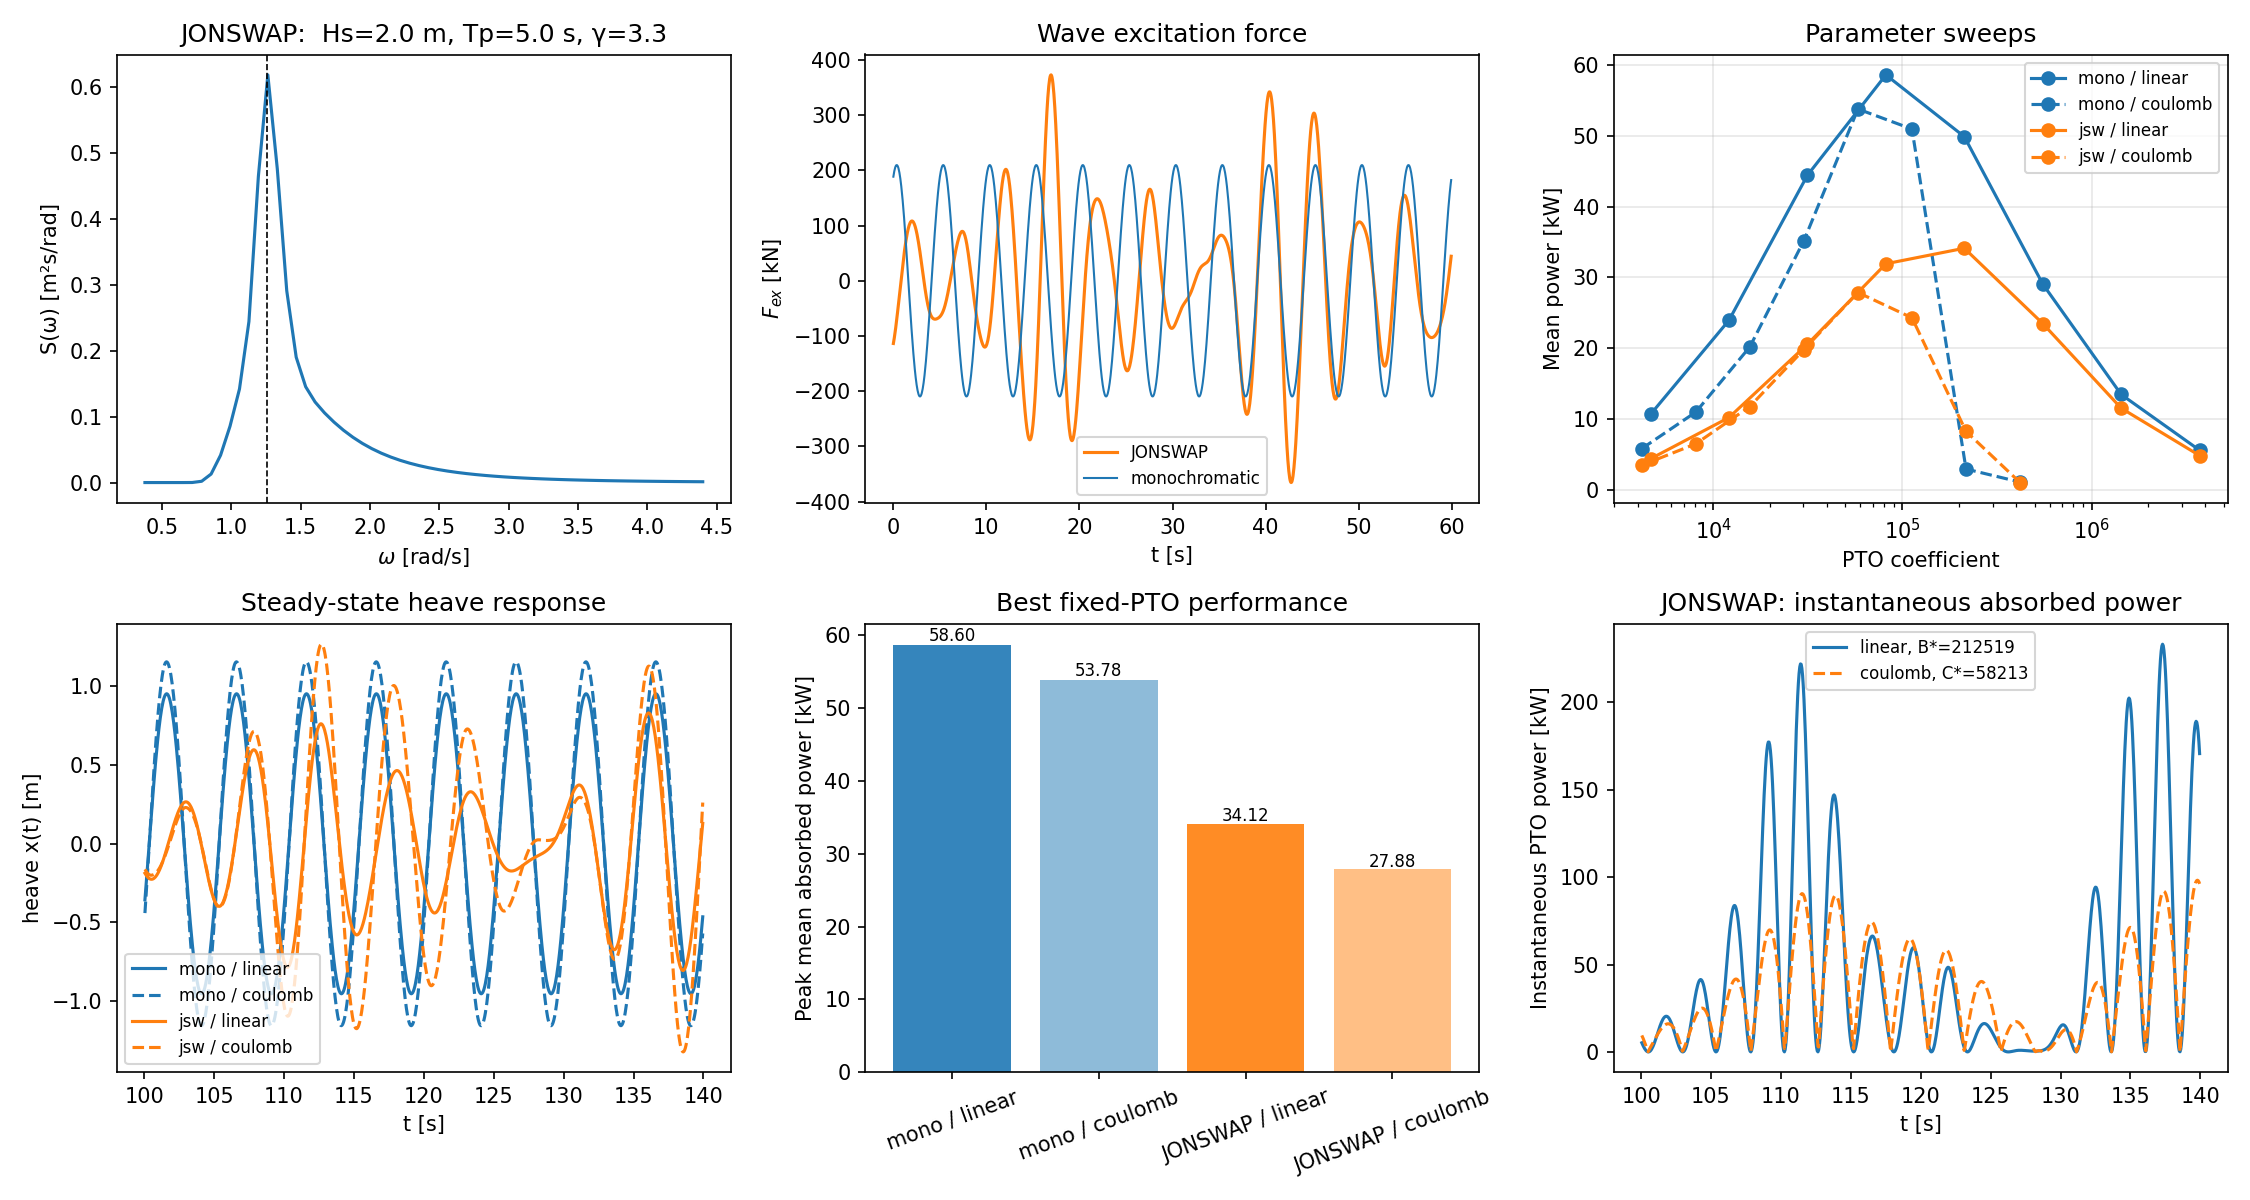
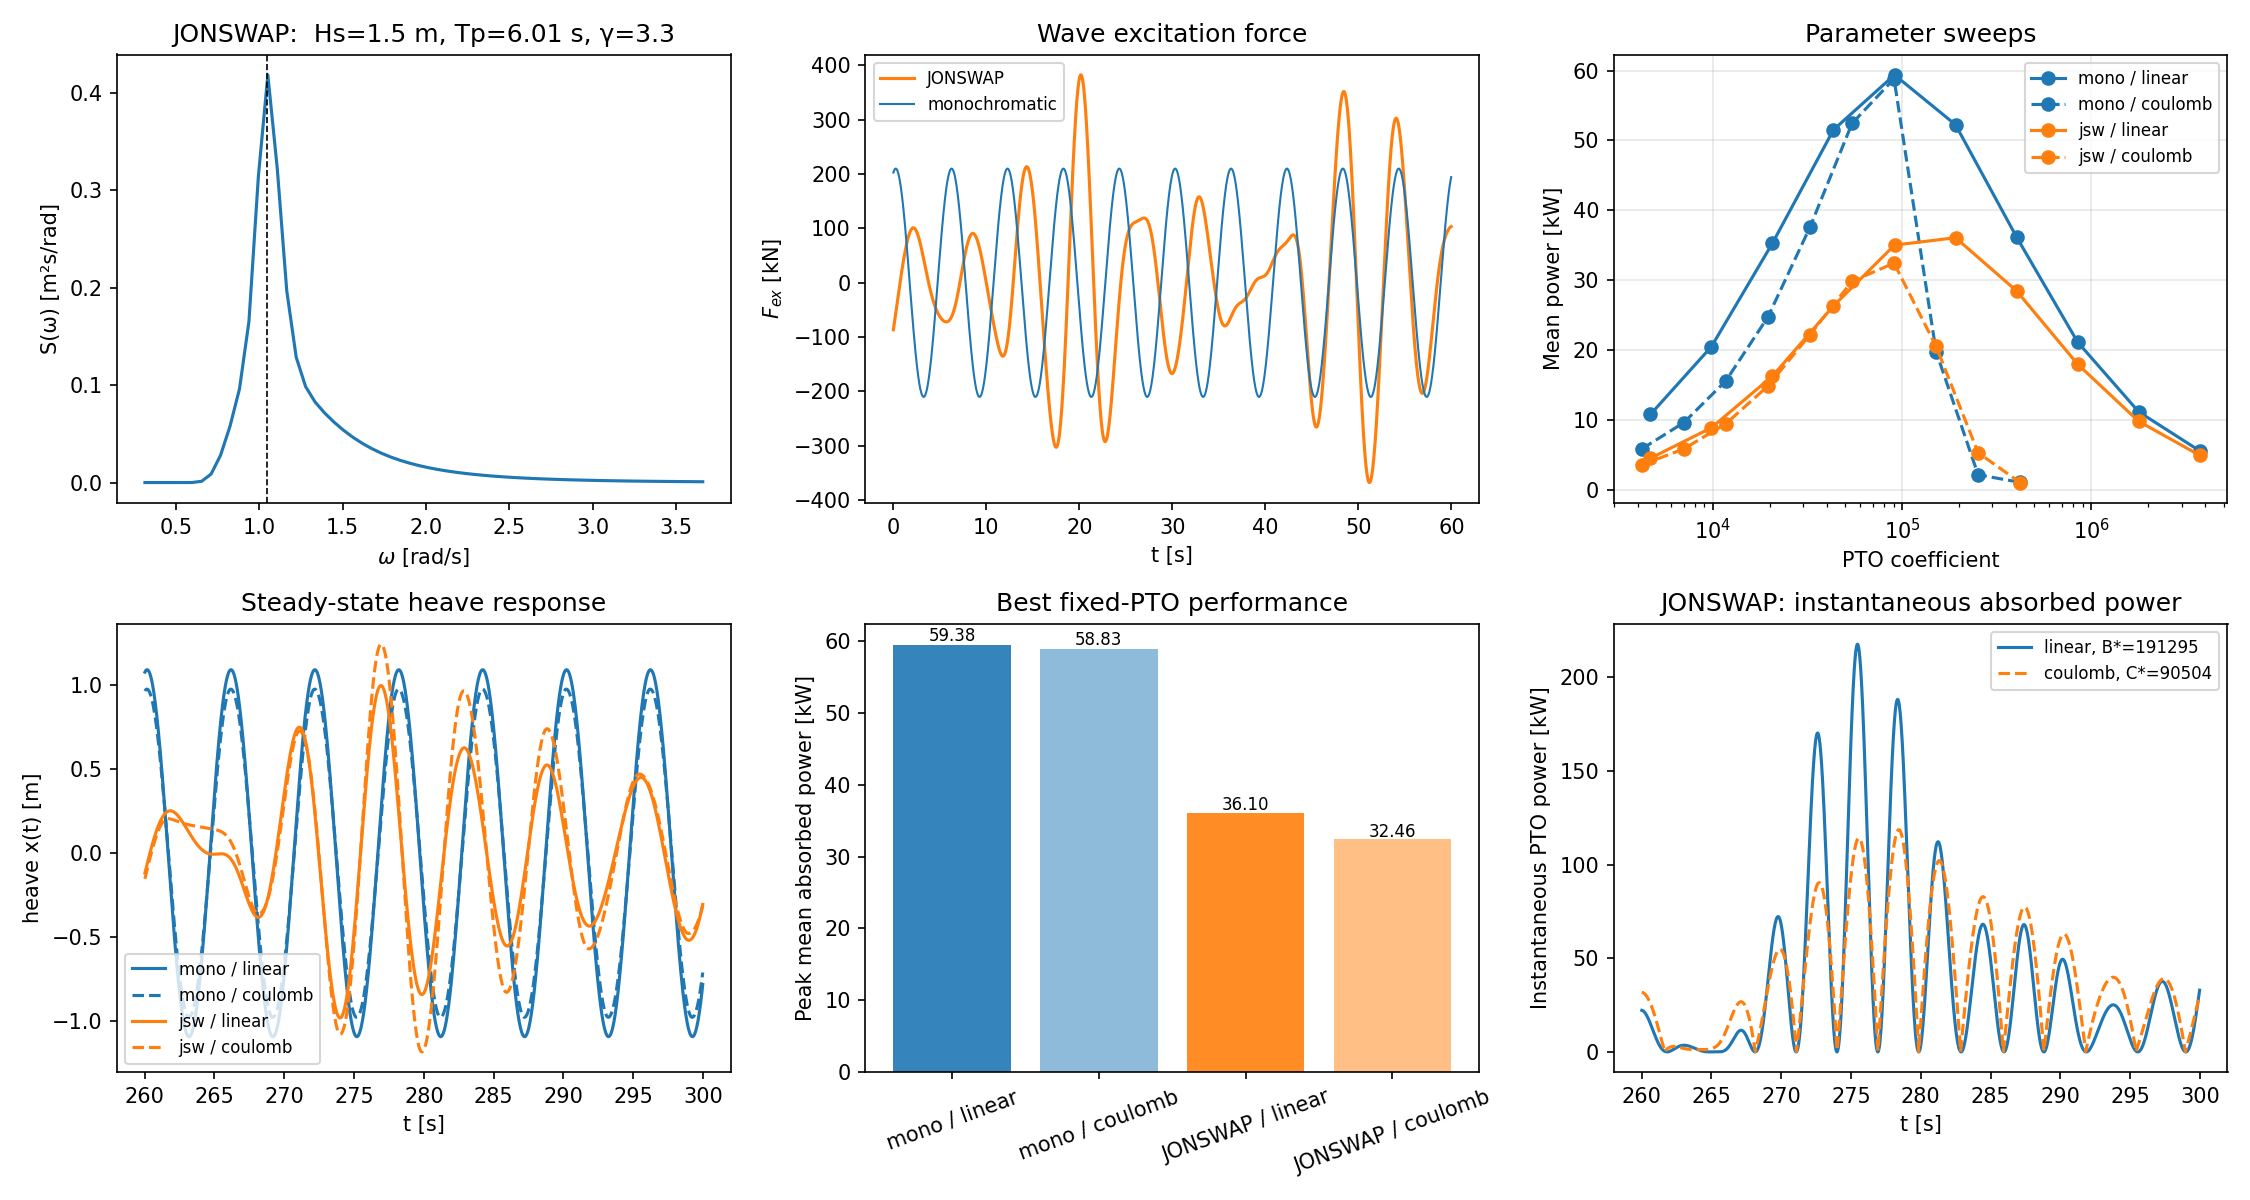
parmeter push

diff --git a/Code/Consolidated/PassiveControl/ResonantMass.py b/Code/Consolidated/PassiveControl/ResonantMass.py
@@ -11,15 +11,14 @@ import capytaine as cpt
 # -----------------------------------------------------------------------------
 # 0. User parameters
 # -----------------------------------------------------------------------------
-FAST_MODE = True                # coarser sweeps / shorter sim for quick runs
 
 RADIUS = 5.0
 RHO    = 1025.0
 G      = 9.81
 
 # sea state params for jonswap
-HS     = 1.6                    # significant wave height [m]
-TP     = 5.30                   # peak period [s] ~ SLOWER WAVE FREQ TO BE TUNED 
+HS     = 0.5                    # significant wave height [m]
+TP     = 5.3                   # peak period [s] ~ SLOWER WAVE FREQ TO BE TUNED 
 GAMMA  = 3.3                    # JONSWAP peak-enhancement factor
 SEED   = 42                     # RNG seed for phase realisation
 